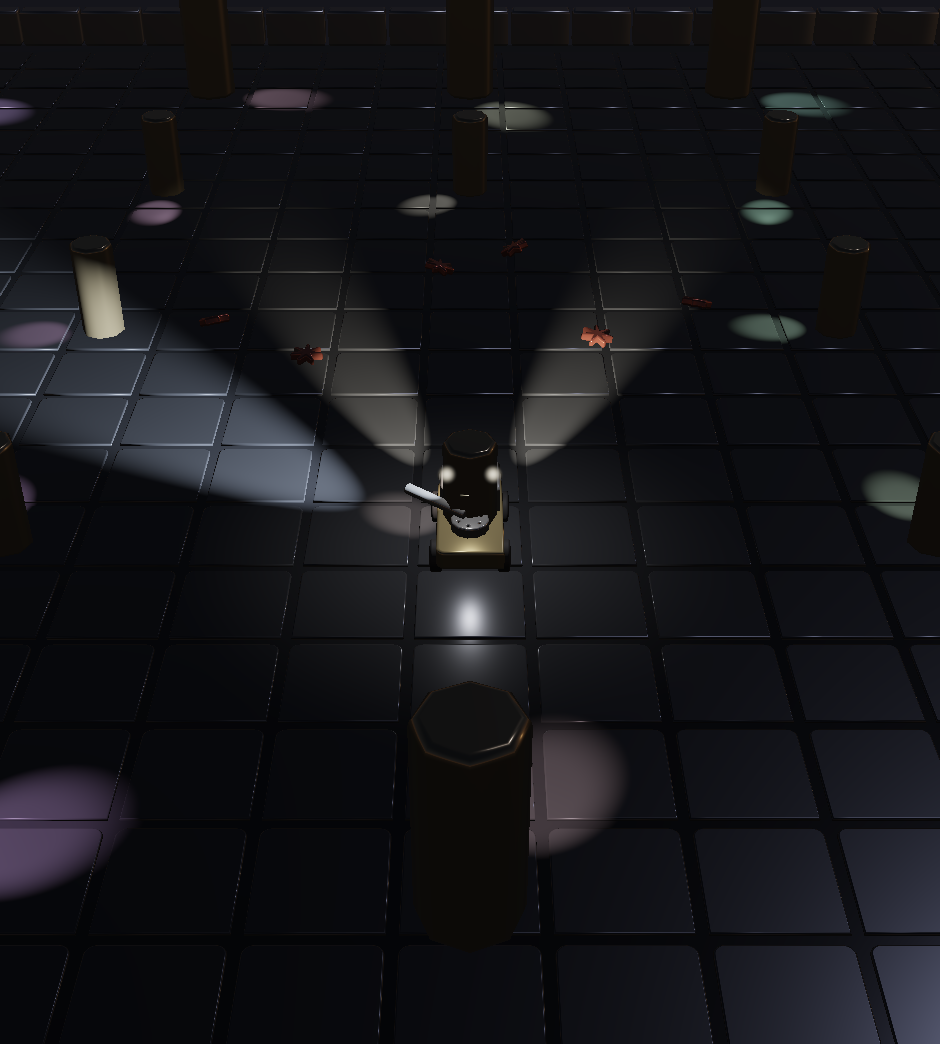
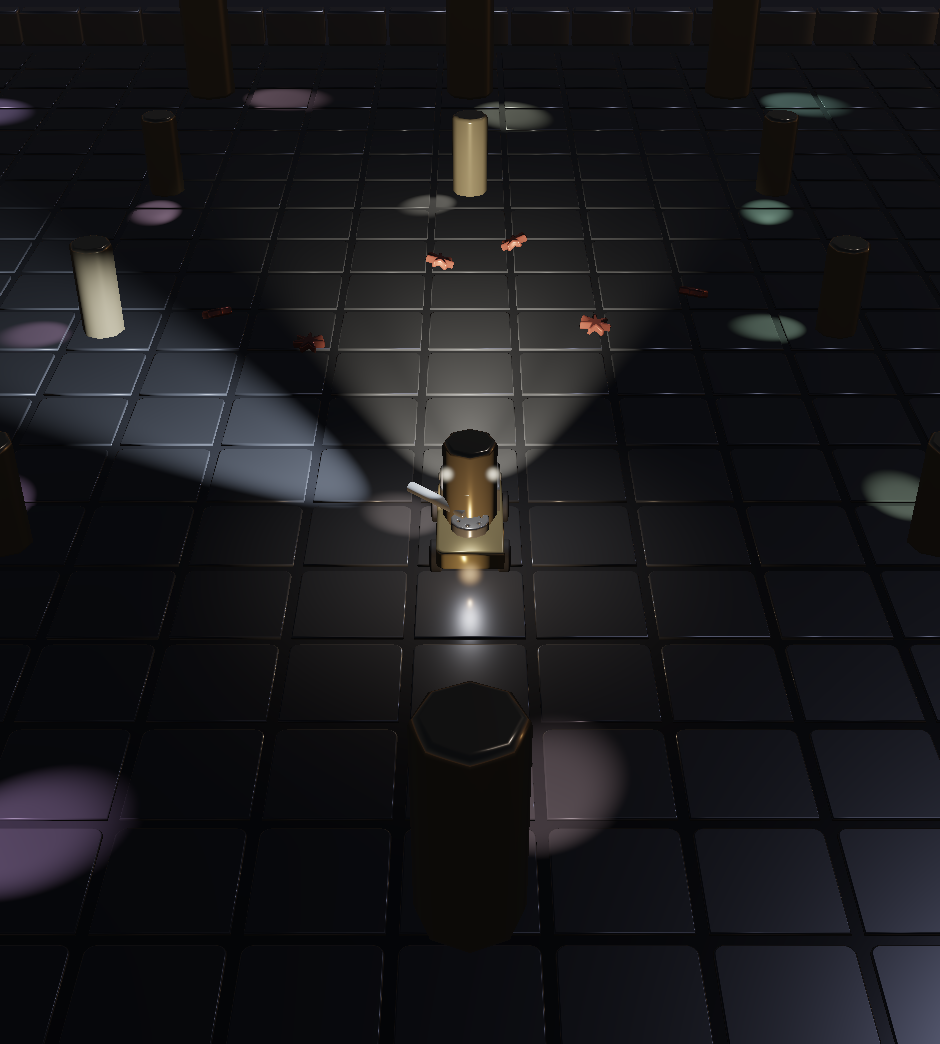
Headlights point forward, where a headlight points
I over-corrected. Toeing them twenty degrees apart made it obvious there were
two of them and stopped them being headlights: two beams you can count while
neither lights the road is worse than one wash that does.

They point forward now, with a few degrees of splay each as a real pair has,
and a cone twice as wide — a wash over the road rather than a beam at a
thing. The beam at a thing is the searchlight, which is cold where these are
warm. What makes them read as a pair is the two lamps on the truck: a car
throws one pool ahead and nobody looks at it and thinks it has one lamp.

Measured along the road ahead, brightest dead centre at every distance: at
350mm out the axis reads 121 against 17 and 21 at three hundred either side;
at 700mm, 85 against 45 and 40; at 1200mm, 48. It was a notch at the centre
before, which is what a pair toed apart gives you.

No cost: 2.98 ms with the pool of 300 full, against 3.02 with the narrow ones.

Changed region(s): [[0.0926, 0.092, 0.6787, 0.5824], [0.0617, 0.2452, 0.1543, 0.3065], [0.0, 0.3985, 0.0926, 0.4291]]

diff --git a/src/lighting.ts b/src/lighting.ts
@@ -84,29 +84,30 @@ export function lightsFor(pool: LightPool, arena: Arena, t: number) {
   // than where it is looking. They are what stops you driving into a post
   // while watching something else.
   //
-  // What separates the two is the angle they are toed at, not the 92mm
-  // between the lamps — at the length of a beam that gap is nothing. Two
-  // 27-degree cones toed 7 degrees apart are one cone; the overlap swallows
-  // the difference, which is what these were.
+  // Forward, because that is what a headlight is for. They were toed right
+  // out to either side for a while so that you could tell there were two of
+  // them, and two beams you can count while neither lights the road is worse
+  // than one wash that does. What makes them read as a pair is the two lamps
+  // on the truck: a car throws one pool ahead and nobody looks at it and
+  // thinks it has one lamp.
   //
-  // They also have to survive the searchlight, which sits directly between
-  // them at nearly four times the strength: aimed forward it swamped both and
-  // the truck appeared to have one lamp. So they are toed right out to either
-  // side of it, and they are warm where it is cold.
+  // So a few degrees of splay each, which is what a real pair has, and a wide
+  // cone — a wash over the road rather than a beam at a thing. The narrow
+  // beam at a thing is the searchlight, and it is cold where these are warm.
   for (const side of [-1, 1]) {
-    const toe = arena.pAngle + side * 0.36;
+    const toe = arena.pAngle + side * 0.07;
     pool.add({
       position: at(LAMP_AHEAD, side * LAMP_ACROSS, LAMP_HEIGHT),
-      radius: 2200,
+      radius: 2400,
       colour: hurt ? [1, 0.45, 0.4] : [1, 0.87, 0.62],
       // A lamp 84mm above the floor sees it almost edge-on: at 900mm out the
       // cosine between the floor's normal and the way back to the lamp is
       // 0.09, so nine tenths of the beam is thrown away by the geometry
       // before intensity is even considered. That is true of a real headlight
       // too, and a real headlight answers it by being very bright.
-      intensity: 20,
-      direction: [Math.cos(toe), Math.sin(toe), -0.22],
-      cone: [5, 13],
+      intensity: 22,
+      direction: [Math.cos(toe), Math.sin(toe), -0.20],
+      cone: [10, 25],
     });
   }
 
